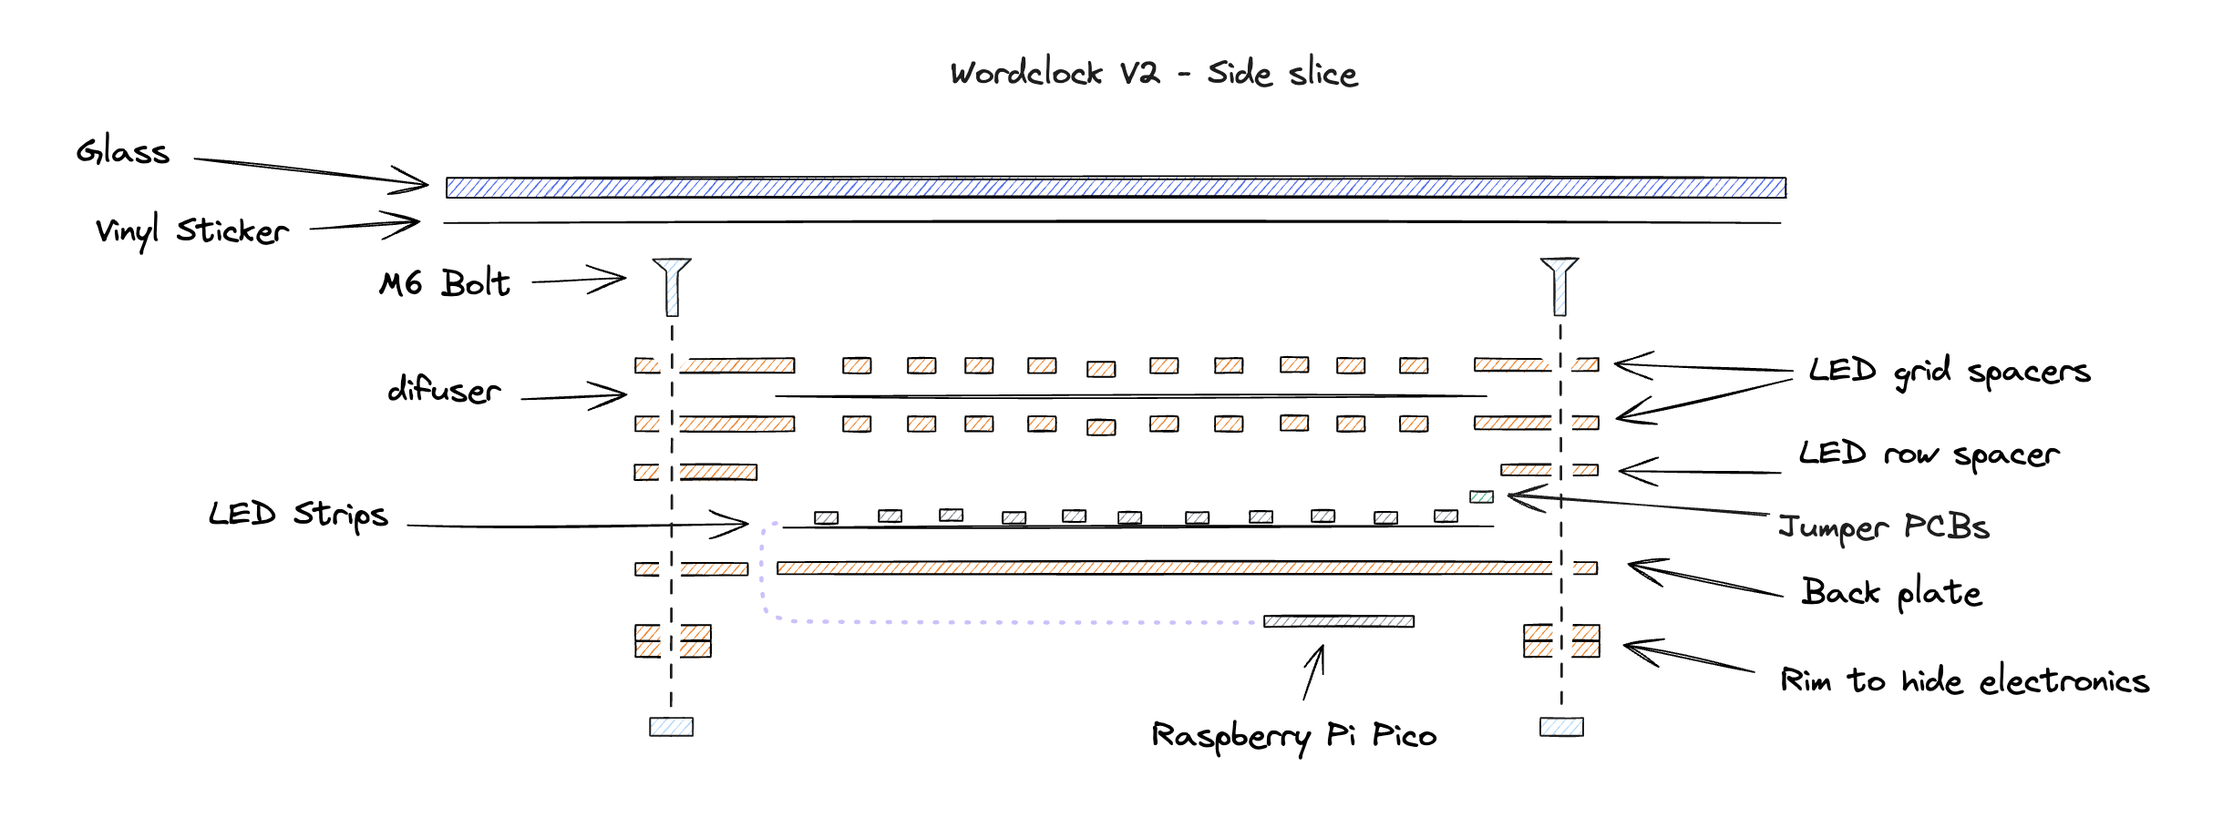
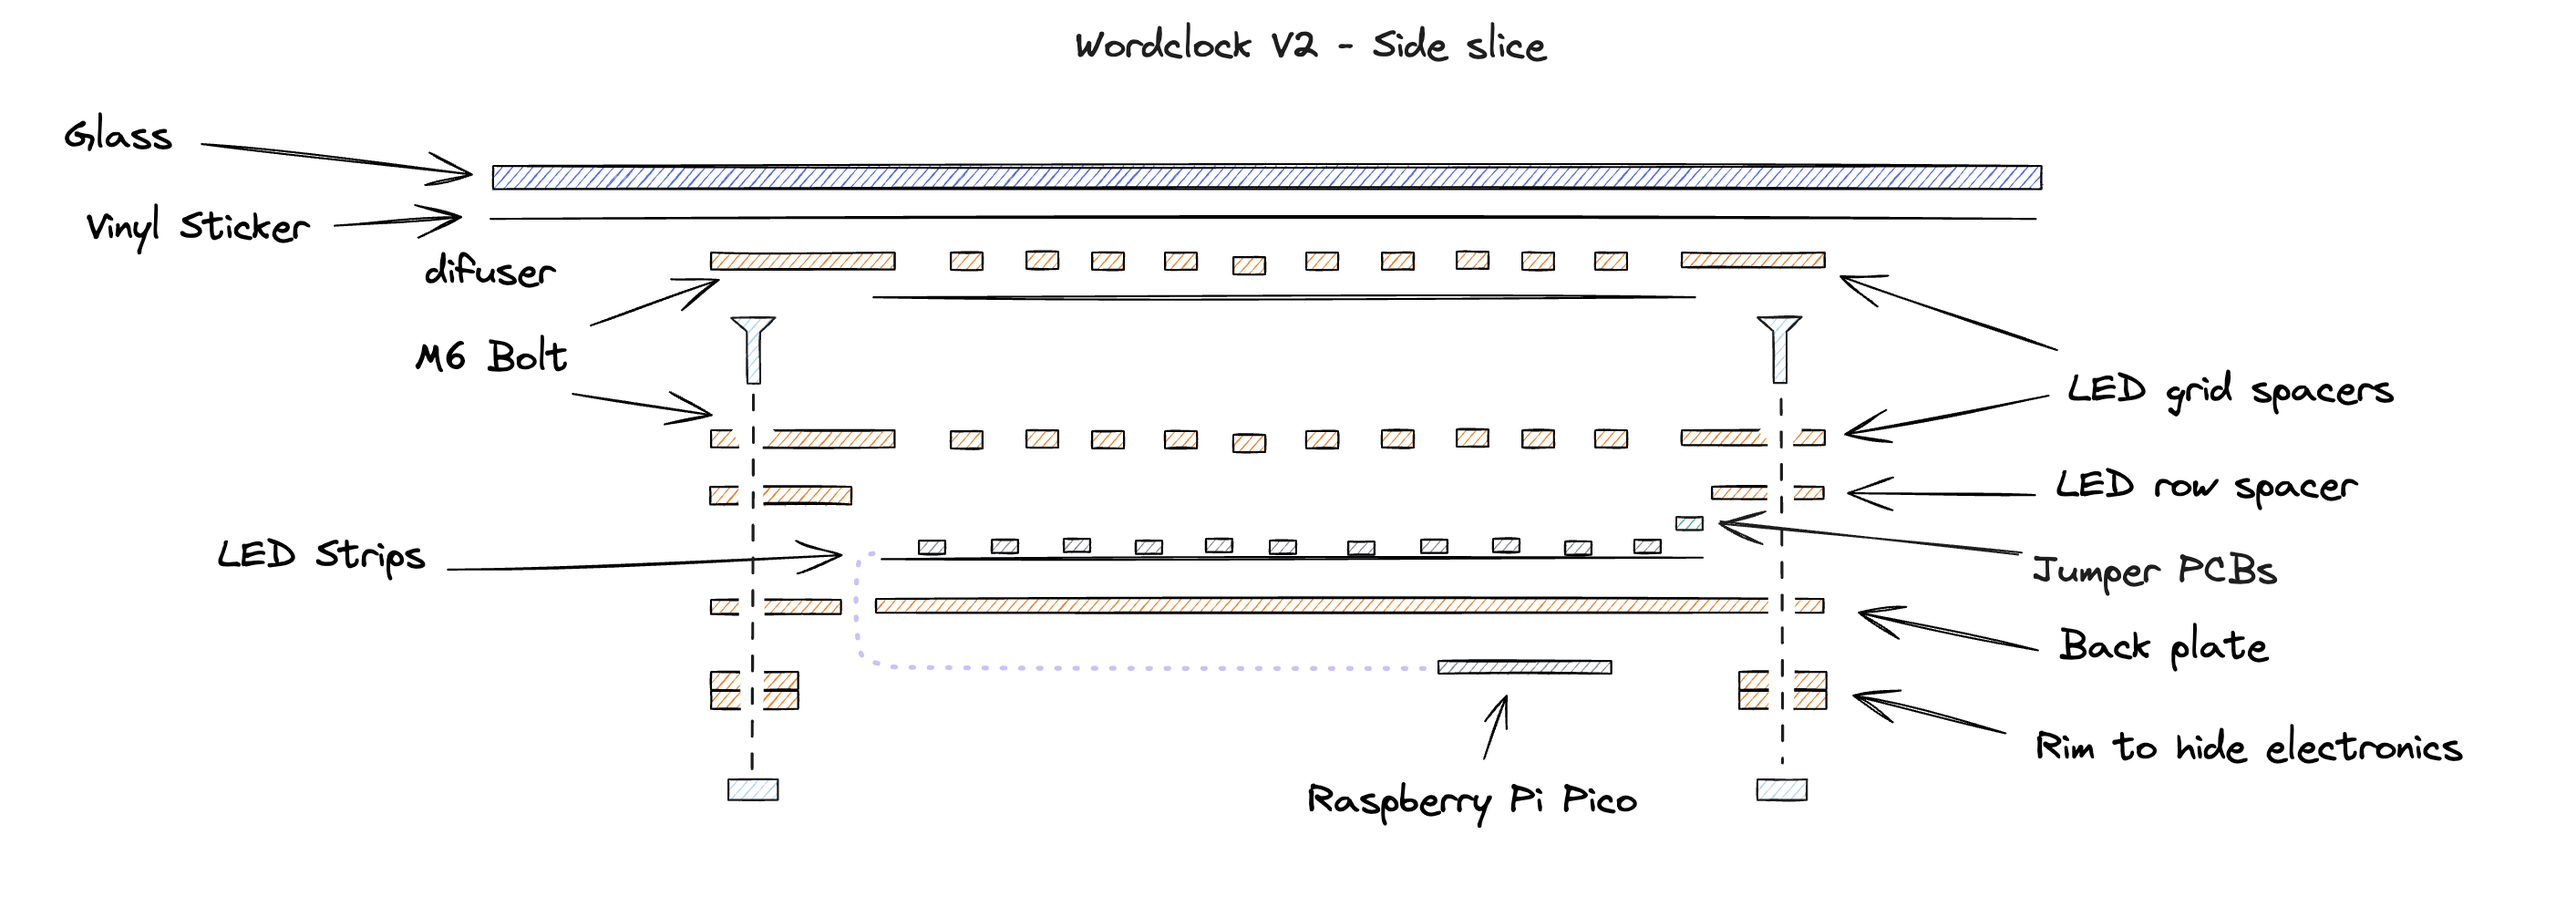
fix doc

diff --git a/hardware/README.md b/hardware/README.md
@@ -20,13 +20,15 @@
 
 The clock is made of a *glass panel* with a *die-cut vinyl sticker* on the back with the pattern of our clock. I ordered my glass panel from a glass shop nearby, prefer chamfered and polished edges. For the clock face I used this font [word-clock-stencil-mono](https://github.com/mrudelle/wordclock-stencil-mono). Pattern was cut on a cricut tracer. To apply the pattern I used the water technique and an credit card to squeeze all bubbles out. Longest part was taking out all the letters with a pair of tweezers (that's why the font is stencil).
 
-On the vinyl is glued a lasercut MDF grid spacer with 4 cone-shaped head m6 screws. The screw will help holde the various layers together. The vinyl was gently sanded to provide more grip for the glue. The MDF grid spacer m6 holes are chamfered to hold on to the screws when glued to the vinyl. And the screws are flush with the spacer.
+On the vinyl is glued a lasercut MDF grid spacer. The vinyl was gently sanded to provide more grip for the glue.
 
-A diffuser is placed on the spacer and another grid spacer is placed on top (not glued). I colored the diffuser with a black marker so that letters are stealth when not lit up. _Tip: mark the squares with a checker pattern to avoid the page to warp too much_
+A diffuser is placed on the spacer. I colored the diffuser with a black marker so that letters are stealth when not lit up. _Tip: mark the squares with a checker pattern to avoid the page to warp too much_
 
 ![Wordclock v2 diffuser](/doc/img/build-diffuser.jpg)
 
-The next layer is an LED row spacer.
+Another MDF grid spacer is placed on top (glued) with 4 cone-shaped head m6 screws. The screw will help hold the various layers together. The MDF grid spacer m6 holes are chamfered to hold on to the screws when glued to the vinyl. And the screws are flush with the spacer.
+
+The next layer is an MDF LED row spacer.
 
 Then the back plate, with LED taped on it, with the PCB jumpers soldered to recreate a long chain. I ordered 1.6mm thick custom designed PCB jumpers for cheap (from PCBway IIRC). With castelated holes to easily solder them onto the led strips.
 
@@ -37,6 +39,8 @@ Then the back plate, with LED taped on it, with the PCB jumpers soldered to recr
 On the back of that back plate goes all the electronics. Hidden by a rim that is screwed to the bolts and holds everything together. I painted the visible parts black to hide them a bit more when looking from the side.
 
 ![Wordclock v2 back plate with electornics](/doc/img/back.jpeg)
+
+Tip: do not tighten the screews too much, it might apply a localised negative pressure on the vinyl and start pealing it.
 
 
 
